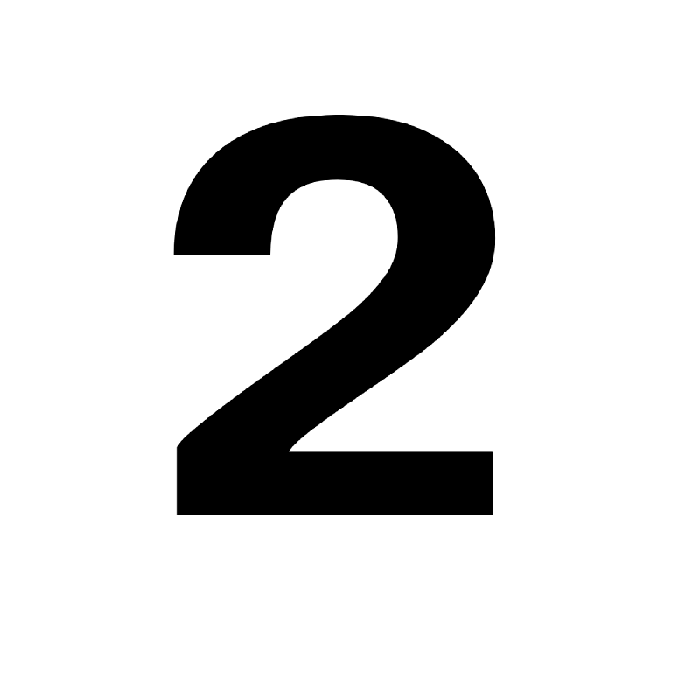
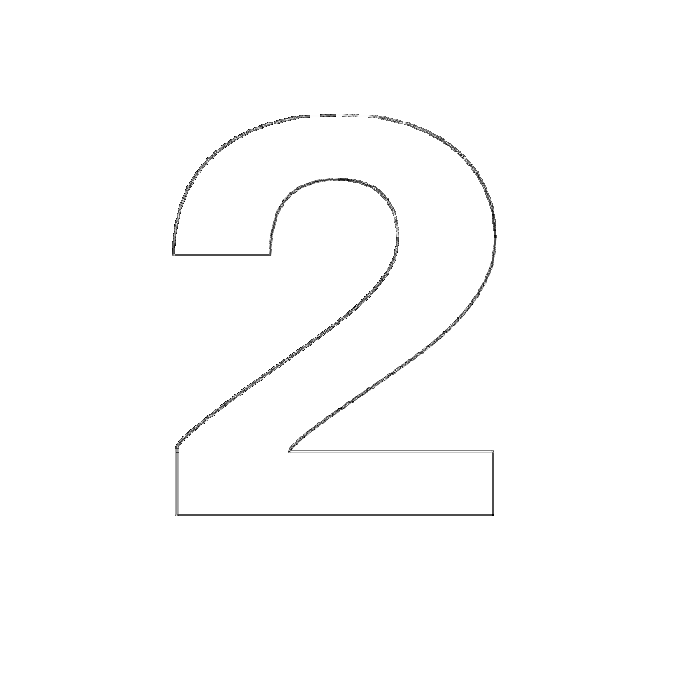
Enable image filters

Changed region(s): [[0.24, 0.15, 0.72, 0.75]]

diff --git a/app/image_utils.py b/app/image_utils.py
@@ -1,6 +1,11 @@
+from typing import List
+
 import numpy as np
 from PIL import Image, ImageEnhance, ImageDraw
 from PIL.Image import Resampling
+from scipy.ndimage import sobel
+
+from app.constants import ImageFilters
 
 
 def preprocess_image(
@@ -8,7 +13,8 @@ def preprocess_image(
         output_path: str,
         target_size: int = 0,
         brightness: float = 1.0,
-        contrast: float = 1.0) -> None:
+        contrast: float = 1.0,
+        filters: List[ImageFilters] = []) -> None:
     """
     Processes an image by performing the following steps:
     1. Loads an image from a file.
@@ -24,6 +30,7 @@ def preprocess_image(
         target_size: Size of the output image (default is 0).
         brightness (float): Brightness adjustment factor (default is 1.0).
         contrast (float): Contrast adjustment factor (default is 1.0).
+        filters (ImageFilters): image filters to apply (default is []).
     """
     # Step 1: Load the image
     image = Image.open(input_path)
@@ -49,6 +56,12 @@ def preprocess_image(
         enhancer = ImageEnhance.Contrast(image)
         image = enhancer.enhance(contrast)
 
+    if ImageFilters.Sobel in filters:
+        # - apply Sobel filter to the image and invert it
+        image = apply_sobel_filter(image)
+        # invert
+        image = Image.fromarray(255 - np.array(image))
+
     # Step 5: Mask out the area outside the central circle
     mask = Image.new("L", (square_size, square_size), color=0)
     draw = ImageDraw.Draw(mask)
@@ -62,6 +75,26 @@ def preprocess_image(
 # Example usage:
 # preprocess_image("input.png", "output.png", brightness=1.2, contrast=0.8)
 
+def apply_sobel_filter(image: Image) -> Image:
+    image_array = np.array(image)
+
+    # Ensure the image is grayscale (2D array)
+    if image_array.ndim == 3:  # Convert RGB to grayscale if needed
+        image_array = image_array.mean(axis=2)
+
+    # Apply the Sobel filter along the x and y axes
+    sobel_x = sobel(image_array, axis=1)  # Horizontal edges
+    sobel_y = sobel(image_array, axis=0)  # Vertical edges
+
+    # Combine the Sobel filtered results to get the edge magnitude
+    sobel_magnitude = np.hypot(sobel_x, sobel_y)
+
+    # Normalize the result to the range [0, 1] for visualization
+    sobel_magnitude = (sobel_magnitude / np.max(sobel_magnitude)) if np.max(sobel_magnitude) > 0 else sobel_magnitude
+
+    # Convert the result back to an image for visualization
+    sobel_image = Image.fromarray((sobel_magnitude * 255).astype(np.uint8))
+    return sobel_image
 
 def image_to_normalized_array(image_path: str) -> np.ndarray:
     """

diff --git a/app/main.py b/app/main.py
@@ -57,8 +57,8 @@ def build_test_image_settings_04():
 
 
 def build_test_image_settings_05():
-    img_path = IMG_DIR + "/guinea_orig.jpg"
-    settings = ImageSettings(size=300, brightness=1.0, contrast=1.6)
+    img_path = IMG_DIR + "/ringed.png"
+    settings = ImageSettings(size=400, brightness=1.0, contrast=1.2)
     settings.pins = 240
     settings.min_threads = 3054
     settings.max_threads = 3054
@@ -109,7 +109,7 @@ def build_test_image_settings_07():
 
 
 def build_test_sorted_02():
-    img_path = IMG_DIR + "/2.png"
+    img_path = IMG_DIR + "/guinea_2.jpeg"
     settings = ImageSettings(size=700, brightness=1.0, contrast=1.2)
     settings.pins = 240
     settings.min_threads = 2100

diff --git a/app/image_settings.py b/app/image_settings.py
@@ -1,3 +1,8 @@
+from typing import List
+
+from app.constants import ImageFilters
+
+
 class ImageSettings:
     def __init__(
             self,
@@ -9,11 +14,13 @@ class ImageSettings:
             max_threads: int = 0,
             thread_intensity: float = 0.6,
             threads_in_iteration: int = 0,
-            min_pin_distance: int = 5,):
+            min_pin_distance: int = 5,
+            filters: List[ImageFilters] = []):
         self.size = size
         self.brightness = brightness
         self.contrast = contrast
         self.pins = pins
+        self.filters = filters
 
         if not min_threads:
             min_threads = int(round(pins**1.33))

diff --git a/app/stochastic_image_builder.py b/app/stochastic_image_builder.py
@@ -37,7 +37,8 @@ class StochasticImageBuilder:
 
     def build(self):
         preprocess_image(self.orig_path, self.preproc_path,
-                         self.settings.size, self.settings.brightness, self.settings.contrast)
+                         self.settings.size, self.settings.brightness,
+                         self.settings.contrast, self.settings.filters)
         self.target_matrix = image_to_normalized_array(self.preproc_path)
         self.target_matrix = 1.0 - self.target_matrix  # invert the image
         self.matrix: np.array = np.zeros((self.size, self.size))

diff --git a/app/image_builder.py b/app/image_builder.py
@@ -33,7 +33,8 @@ class ImageBuilder:
 
     def build(self):
         preprocess_image(self.orig_path, self.preproc_path,
-                         self.settings.size, self.settings.brightness, self.settings.contrast)
+                         self.settings.size, self.settings.brightness,
+                         self.settings.contrast, self.settings.filters)
         self.target_matrix = image_to_normalized_array(self.preproc_path)
         self.target_matrix = 1.0 - self.target_matrix  # invert the image
         self.matrix: np.array = np.zeros((self.size, self.size))

diff --git a/app/constants.py b/app/constants.py
@@ -1,0 +1,5 @@
+from enum import Enum
+
+
+class ImageFilters(Enum):
+    Sobel = "Sobel"
